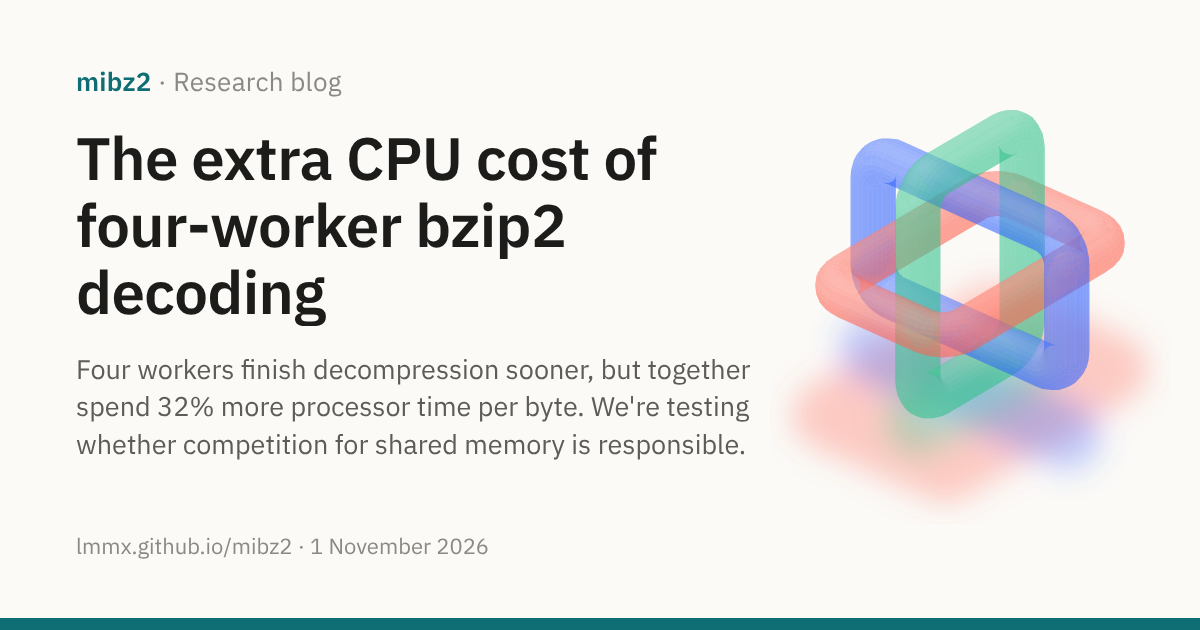
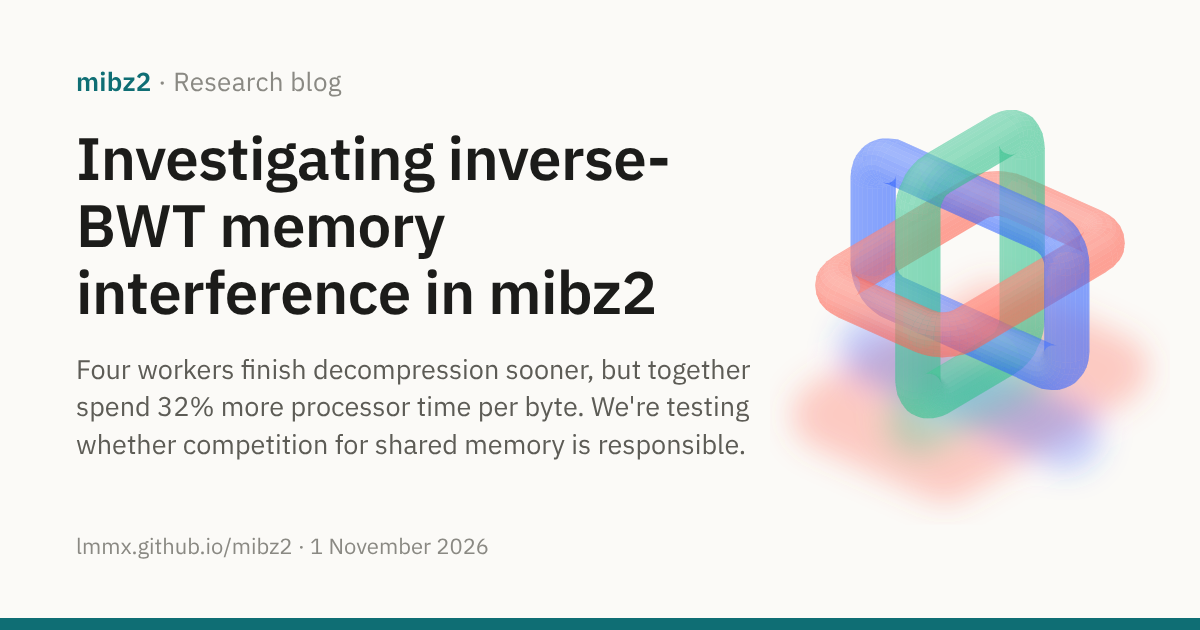
docs(blog): restore the P87 post's title

Changed region(s): [[0.0617, 0.2111, 0.555, 0.5429]]

diff --git a/docs/site/blog/index.md b/docs/site/blog/index.md
@@ -8,7 +8,7 @@ What mibz2's experiments are finding, and where they go next. The evidence behin
 post is in the [journals](../background/journals.md) and the pull requests they link.
 
 <div class="post-list">
-<a class="post-card" href="2026-11-01-inverse-bwt-memory-interference.md"><img src="../assets/social/blog-2026-11-01-inverse-bwt-memory-interference.png" alt="" loading="lazy"><span class="post-card-text"><span class="post-card-date">1 November 2026 · Research in progress</span><span class="post-card-title">The extra CPU cost of four-worker bzip2 decoding</span><span class="post-card-dek">Four workers finish decompression sooner, but together spend 32% more processor time per byte. We're testing whether competition for shared memory is responsible.</span></span></a>
+<a class="post-card" href="2026-11-01-inverse-bwt-memory-interference.md"><img src="../assets/social/blog-2026-11-01-inverse-bwt-memory-interference.png" alt="" loading="lazy"><span class="post-card-text"><span class="post-card-date">1 November 2026 · Research in progress</span><span class="post-card-title">Investigating inverse-BWT memory interference in mibz2</span><span class="post-card-dek">Four workers finish decompression sooner, but together spend 32% more processor time per byte. We're testing whether competition for shared memory is responsible.</span></span></a>
 <a class="post-card" href="2026-11-01-block-dispatch.md"><img src="../assets/social/blog-2026-11-01-block-dispatch.png" alt="" loading="lazy"><span class="post-card-text"><span class="post-card-date">1 November 2026 · Investigation in progress</span><span class="post-card-title">Block dispatch in mibz2: mutexes, futexes and the scheduler</span><span class="post-card-dek">How mibz2's parallel decoder hands blocks to its workers, why some take up to a millisecond to be picked up, and how to tell lock contention from scheduling delay.</span></span></a>
 <a class="post-card" href="2026-10-31-room-walk-overlap.md"><img src="../assets/social/blog-2026-10-31-room-walk-overlap.png" alt="" loading="lazy"><span class="post-card-text"><span class="post-card-date">31 October 2026 · Open question</span><span class="post-card-title">32 lanes, 8.6 chains: where the inverse BWT walk spends its cycles</span><span class="post-card-dek">The decoder's 32-lane walk runs 8.6 times faster than one chain. That figure may not mean what it seems: the walk may already hide memory latency, and spend too many instructions on each byte.</span></span></a>
 <a class="post-card" href="2026-10-29-compact-navigation-tables.md"><img src="../assets/social/blog-2026-10-29-compact-navigation-tables.png" alt="" loading="lazy"><span class="post-card-text"><span class="post-card-date">29 October 2026 · Work in progress</span><span class="post-card-title">Compact navigation tables for the inverse BWT: early findings</span><span class="post-card-dek">Most of the inverse BWT's navigation table follows simple patterns: what a census of real blocks found, and what comes next.</span></span></a>

diff --git a/docs/site/blog/2026-11-01-inverse-bwt-memory-interference.md b/docs/site/blog/2026-11-01-inverse-bwt-memory-interference.md
@@ -1,5 +1,5 @@
 ---
-title: "The extra CPU cost of four-worker bzip2 decoding"
+title: "Investigating inverse-BWT memory interference in mibz2"
 image: assets/social/blog-2026-11-01-inverse-bwt-memory-interference.png
 description: "Four workers finish decompression sooner, but together spend 32% more processor time per byte. We're testing whether competition for shared memory is responsible."
 ---
@@ -11,7 +11,7 @@ description: "Four workers finish decompression sooner, but together spend 32% m
 [mibz2 · Research blog](index.md)
 {: .post-kicker }
 
-# The extra CPU cost of four-worker bzip2 decoding
+# Investigating inverse-BWT memory interference in mibz2
 
 Four workers finish decompression sooner, but together spend 32% more processor time per
 byte. We're testing whether competition for shared memory is responsible.
